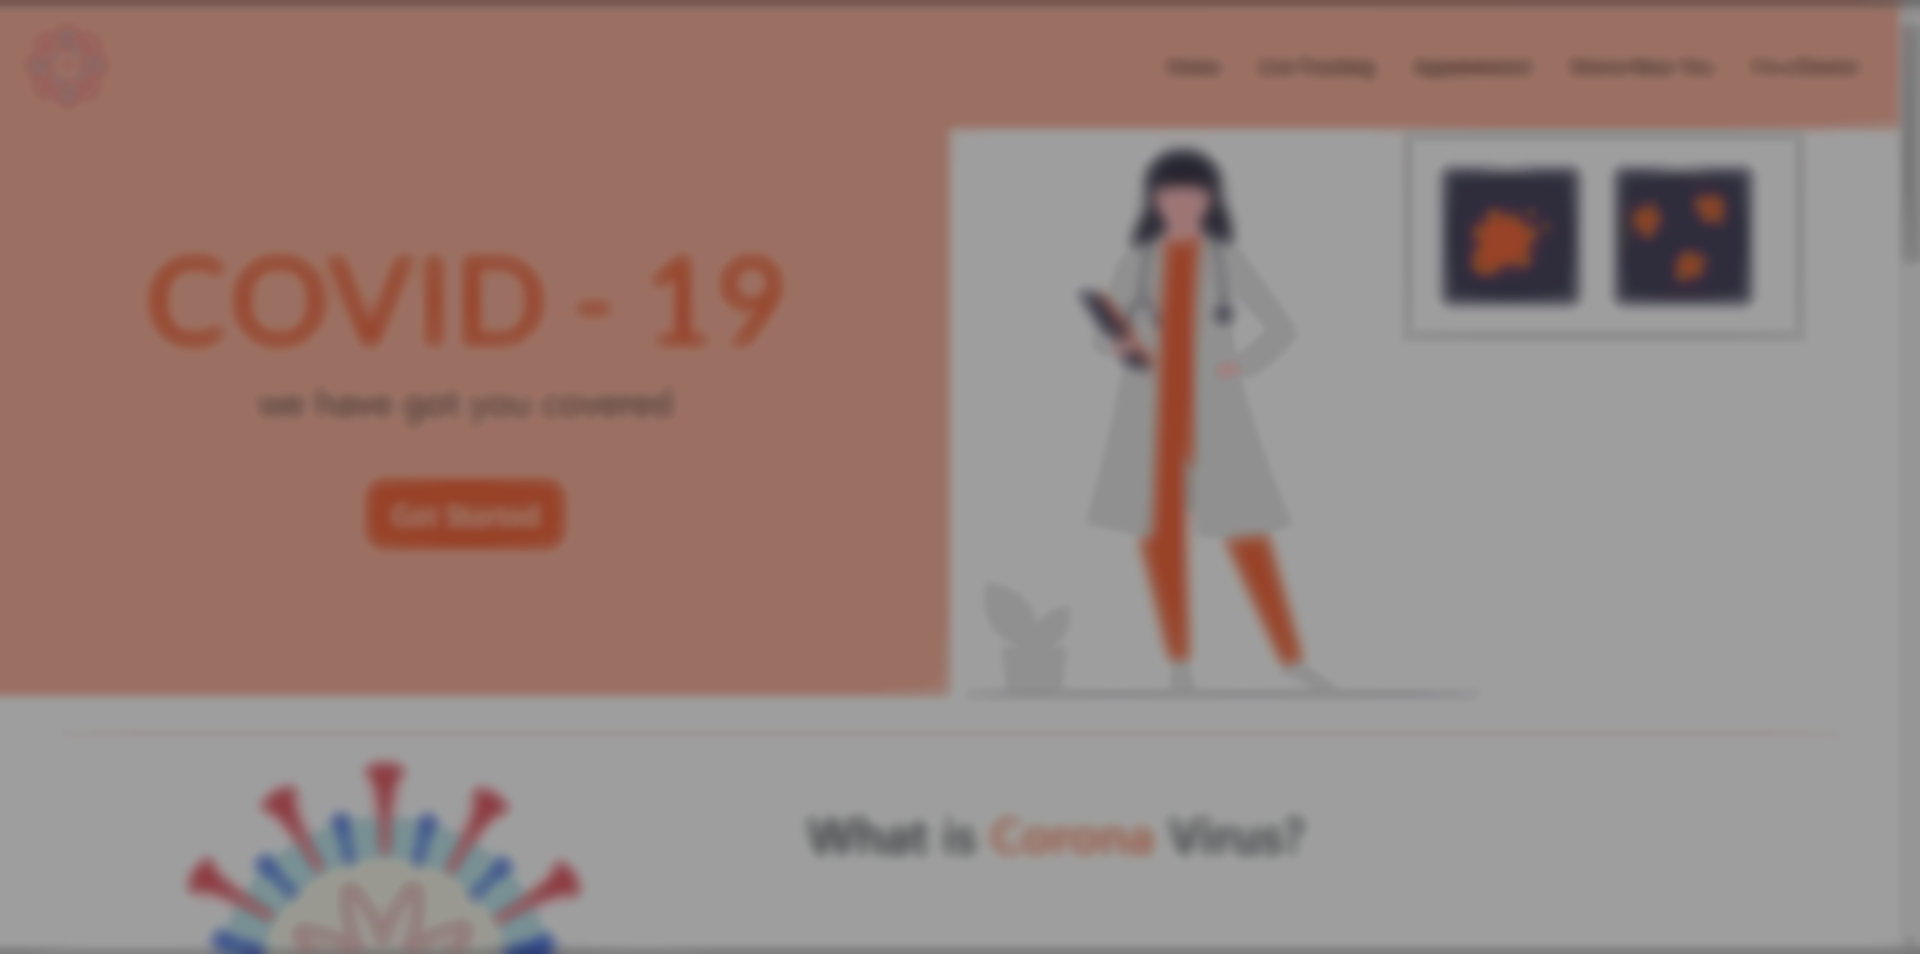
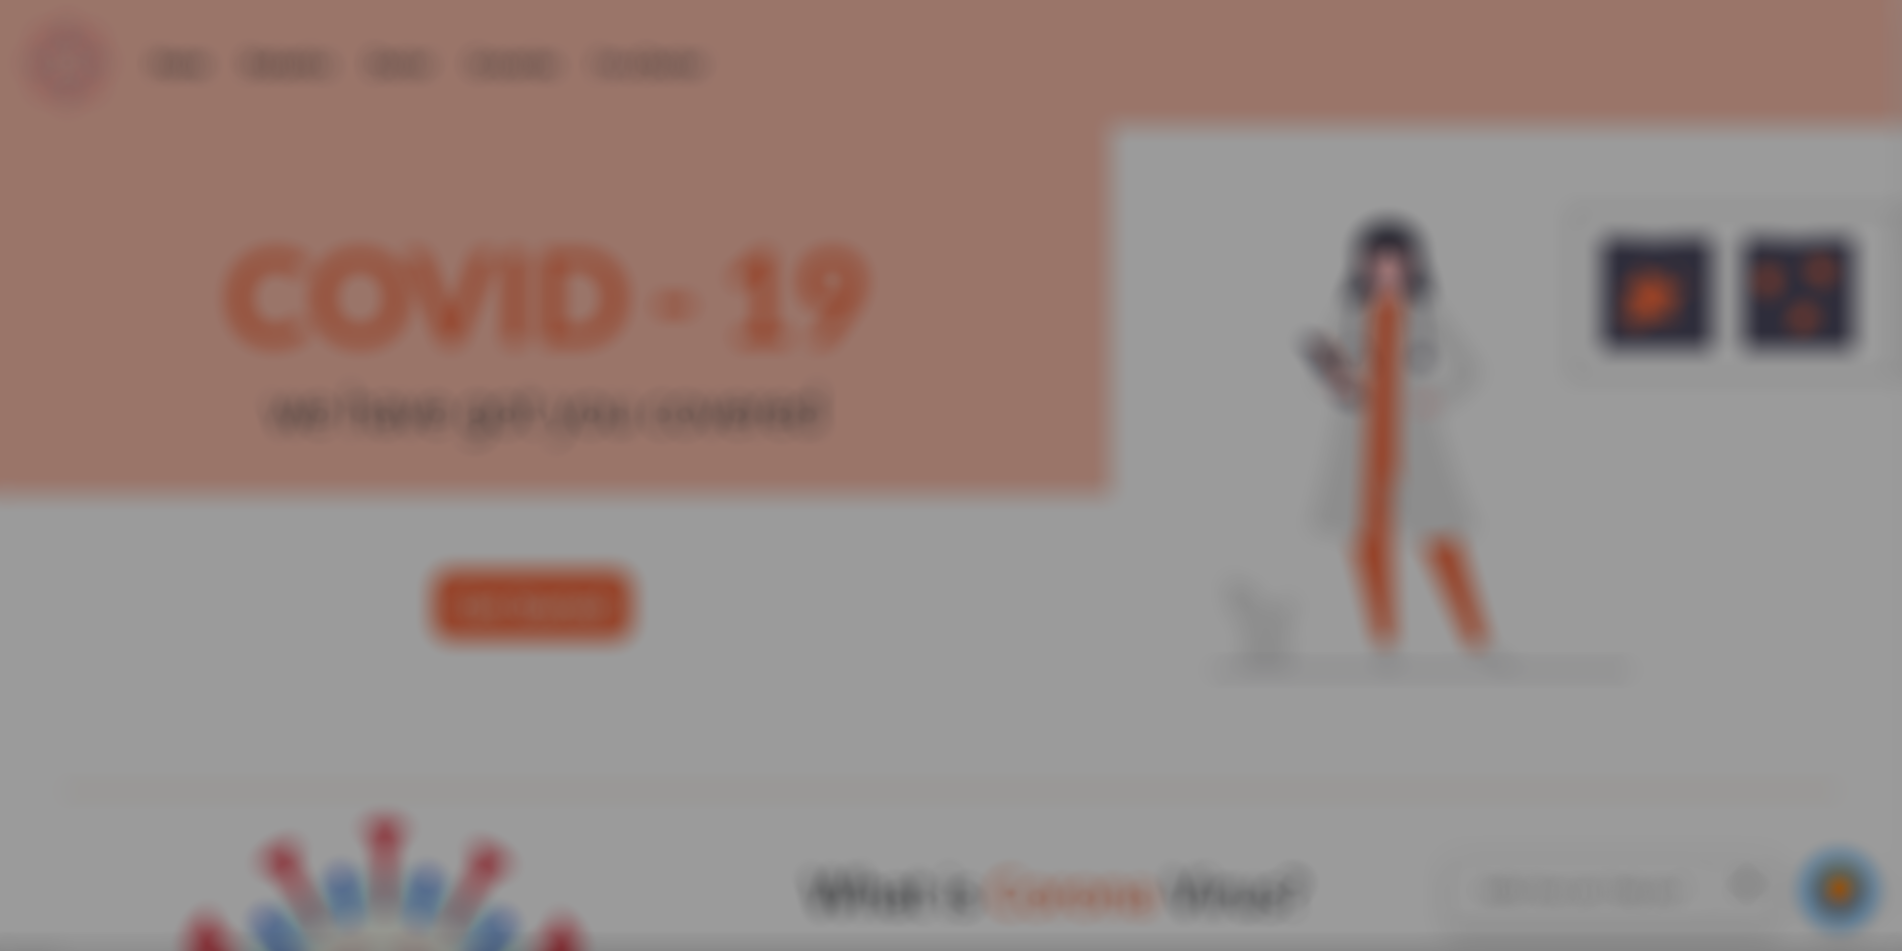
BOOK APPOINTMENT PAGE

diff --git a/stats/src/app/bookdoctor/bookdoctor.component.html b/stats/src/app/bookdoctor/bookdoctor.component.html
@@ -1,0 +1,61 @@
+<div class="nav-cont">
+    <app-navbar></app-navbar>
+</div>
+<div id="gc-main">
+    <div class="row">
+        <div class="col-md-1"></div>
+        <div class="col-md-5">
+            <div class="box-big">
+                <h2 style="text-align: center; margin-top: 20px;">Get yourself<span style="color: #f56133;">
+                        Checked</span>
+                </h2>
+                <hr>
+                <form class="text-center">
+                    <div class="form-group">
+                        <input type="text" class="form-control" placeholder="What's your name?">
+                    </div>
+                    <div class="form-group">
+                        <input type="text" class="form-control" placeholder="What's your contact Number?">
+                    </div>
+                    <div class="form-group">
+                        <input type="text" class="form-control" placeholder="What's your Address?">
+                    </div>
+                    <div class="form-group">
+                        <textarea type="text" rows="5" class="form-control"
+                            placeholder="What kind of Symptoms you are facing?"></textarea>
+                    </div>
+                    <button style="margin-top: 10px; background-color: #f56133; border: 0ch; width: 80%;"
+                        class="btn btn-primary mx-auto " (click)="submitform()">Submit</button>
+                </form>
+            </div>
+        </div>
+        <div class="col-md-6">
+            <div class="small-boxes top-box">
+                <h2 style="text-align: center; margin-top: 20px;"><span style="color: #f56133;">Test Centers </span>near
+                    you
+                </h2>
+                <hr>
+            </div>
+            <div class="small-boxes bottom-box">
+                <h2 style="text-align: center; margin-top: 20px;"><span style="color: #f56133;">HelpLine</span>Numbers
+                </h2>
+                <hr>
+                <div class="row">
+                    <div class="col-md-4">
+                        <img src="../../assets/images/png/emergency call,emergency,call,hospital,doctor,phone,receiver,1833385.png"
+                            alt="">
+                    </div>
+                    <div class="col-md-8">
+                        <form [formGroup]="form">
+                            <select formControlName="state">
+                                <option *ngFor="let state of states" [ngValue]="state">{{state.name}}</option>
+                            </select>
+
+                            <p>Selected state: {{state?.number}}</p>
+                        </form>
+                    </div>
+                </div>
+            </div>
+        </div>
+    </div>
+</div>

diff --git a/stats/src/app/app.module.ts b/stats/src/app/app.module.ts
@@ -7,25 +7,31 @@ import { NavbarComponent } from "./components/navbar/navbar.component";
 import { HomeComponent } from "./components/home/home.component";
 import { CountriesComponent } from "./components/countries/countries.component";
 import { HttpClientModule } from "@angular/common/http";
-import { AddStoreComponent } from "./add-store/add-store.component";
 import { DoctordashboardComponent } from "./doctordashboard/doctordashboard.component";
 import { CommonfooterComponent } from "./commonfooter/commonfooter.component";
 import { DoctorloginComponent } from "./doctorlogin/doctorlogin.component";
 import { StoreRegestrtionComponent } from "./store-regestrtion/store-regestrtion.component";
-
+import { BookdoctorComponent } from "./bookdoctor/bookdoctor.component";
+import { ReactiveFormsModule } from "@angular/forms";
 @NgModule({
     declarations: [
         AppComponent,
         NavbarComponent,
         HomeComponent,
         CountriesComponent,
-        AddStoreComponent,
         DoctordashboardComponent,
         CommonfooterComponent,
         DoctorloginComponent,
         StoreRegestrtionComponent,
+        BookdoctorComponent,
     ],
-    imports: [BrowserModule, AppRoutingModule, HttpClientModule, FormsModule],
+    imports: [
+        BrowserModule,
+        AppRoutingModule,
+        HttpClientModule,
+        FormsModule,
+        ReactiveFormsModule,
+    ],
     providers: [],
     bootstrap: [AppComponent],
 })

diff --git a/stats/src/app/app-routing.module.ts b/stats/src/app/app-routing.module.ts
@@ -2,17 +2,18 @@ import { NgModule } from "@angular/core";
 import { Routes, RouterModule } from "@angular/router";
 import { HomeComponent } from "./components/home/home.component";
 import { CountriesComponent } from "./components/countries/countries.component";
-import { AddStoreComponent } from "./add-store/add-store.component";
 import { DoctordashboardComponent } from "./doctordashboard/doctordashboard.component";
 import { DoctorloginComponent } from "./doctorlogin/doctorlogin.component";
 import { StoreRegestrtionComponent } from "./store-regestrtion/store-regestrtion.component";
+import { BookdoctorComponent } from "./bookdoctor/bookdoctor.component";
 
 const routes: Routes = [
     { path: "", component: HomeComponent },
     { path: "statastics", component: CountriesComponent },
     { path: "doctordashboard", component: DoctordashboardComponent },
-    { path: "doctorLogin", component: DoctorloginComponent },
+    { path: "doctorlogin", component: DoctorloginComponent },
     { path: "addStore", component: StoreRegestrtionComponent },
+    { path: "consultDoctor", component: BookdoctorComponent },
 ];
 
 @NgModule({

diff --git a/stats/src/app/components/navbar/navbar.component.html b/stats/src/app/components/navbar/navbar.component.html
@@ -8,20 +8,20 @@
 
   <div class="collapse navbar-collapse" id="navbarSupportedContent">
     <ul class="navbar-nav mr-auto">
-      <li class="nav-item ">
+      <li class="nav-item">
         <a class="nav-link" routerLink="/" routerLinkActive="active">Home</a>
       </li>
       <li class="nav-item">
         <a class="nav-link" routerLink="/stats" routerLinkActive="active">Statastics</a>
       </li>
-      <li class="nav-item ">
-        <a class="nav-link" routerLink="/doctor">Doctor</a>
+      <li class="nav-item">
+        <a class="nav-link" routerLink="/consultDoctor" routerLinkActive="active">Doctor</a>
       </li>
       <li class="nav-item">
-        <a class="nav-link" routerLink="/stores">Groceries</a>
+        <a class="nav-link" routerLink="/stores" routerLinkActive="active">Groceries</a>
       </li>
       <li class="nav-item">
-        <a class="nav-link" routerLink="/doctorlogin">I'm a Doctor</a>
+        <a class="nav-link" routerLink="/doctorlogin" routerLinkActive="active">I'm a Doctor</a>
       </li>
     </ul>
   </div>

diff --git a/stats/src/app/bookdoctor/bookdoctor.component.css b/stats/src/app/bookdoctor/bookdoctor.component.css
@@ -1,0 +1,53 @@
+.nav-cont {
+    background-color: #fccfc1;
+}
+* {
+    overflow: hidden;
+}
+.box-big {
+    border: 1px solid rgba(0, 0, 0, 0.7);
+    min-height: 555px;
+    margin: 50px;
+    margin-right: 10px;
+}
+.small-boxes {
+    border: 1px solid rgba(0, 0, 0, 0.7);
+    min-height: 330px;
+    margin: 50px;
+    margin-right: 50px;
+}
+.small-boxes {
+    border: 1px solid rgba(0, 0, 0, 0.7);
+    min-height: 270px;
+    margin: 30px;
+    margin-right: 50px;
+    margin-top: 50px;
+}
+.top-box {
+    margin-bottom: 15px;
+}
+.bottom-box {
+    margin-top: 15px;
+}
+hr {
+    width: 90%;
+}
+textarea {
+    margin: auto;
+    text-align: center;
+    padding: 20px !important;
+    width: 90%;
+}
+
+input {
+    margin: auto;
+    text-align: center;
+    padding: 3px !important;
+    width: 90%;
+    margin-bottom: 4px;
+}
+.small-boxes img {
+    max-width: 90%;
+    padding: 20px;
+    padding-left: 30px;
+}

diff --git a/stats/src/app/bookdoctor/bookdoctor.component.ts b/stats/src/app/bookdoctor/bookdoctor.component.ts
@@ -1,0 +1,27 @@
+import { Component, OnInit, ViewChild } from "@angular/core";
+import { FormGroup, FormControl } from "@angular/forms";
+@Component({
+    selector: "app-bookdoctor",
+    templateUrl: "./bookdoctor.component.html",
+    styleUrls: ["./bookdoctor.component.css"],
+})
+export class BookdoctorComponent {
+    states = [
+        { name: "United States", number: "+91-7519472787" },
+        { name: "Australia", number: "+91-2432344324787" },
+        { name: "Canada", number: "+91-733532787" },
+        { name: "Brazil", number: "+91-7519342427" },
+        { name: "England", number: "+91-73243244t7" },
+    ];
+    form: FormGroup;
+
+    constructor() {
+        this.form = new FormGroup({
+            state: new FormControl(null),
+        });
+    }
+
+    get state(): string {
+        return this.form ? this.form.get("state").value : "";
+    }
+}

diff --git a/stats/src/index.html b/stats/src/index.html
@@ -24,5 +24,8 @@
 <script src="https://www.gstatic.com/dialogflow-console/fast/messenger/bootstrap.js?v=1"></script>
 <df-messenger chat-icon="53c57293-9f6b-48c2-bd32-8a7b577544f5_x.png" intent="WELCOME" chat-title="GoCo"
   agent-id="2d9854ab-3db9-4055-9e40-cfb69576e845" language-code="en"></df-messenger>
+<script src="http://maps.googleapis.com/maps/api/js?v=3.exp&amp;key=AIzaSyCRP2E3BhaVKYs7BvNytBNumU0MBmjhhxc"></script>
+<script src="assets/js/map.js"></script>
+
 
 </html>

diff --git a/stats/src/app/components/navbar/navbar.component.css b/stats/src/app/components/navbar/navbar.component.css
@@ -9,11 +9,18 @@ nav,
     font-family: "Lato", sans-serif;
     margin-left: 7px;
     margin-right: 7px;
+    transition: 0.16s ease-in all;
 }
 .active {
-    border: 0px 0px 10px solid #000;
+    border: 0px 0px 10px 0px solid #000 !important;
+    transition: 0.26s ease-in all;
 }
 
+.nav-link:hover {
+    border-bottom: 1px solid #000;
+    padding-left: 20px;
+    padding-right: 20px;
+}
 .animated-icon2 {
     width: 30px;
     height: 20px;

diff --git a/stats/src/index.d.ts b/stats/src/index.d.ts
@@ -1,0 +1,1 @@
+declare module "googlemaps";
